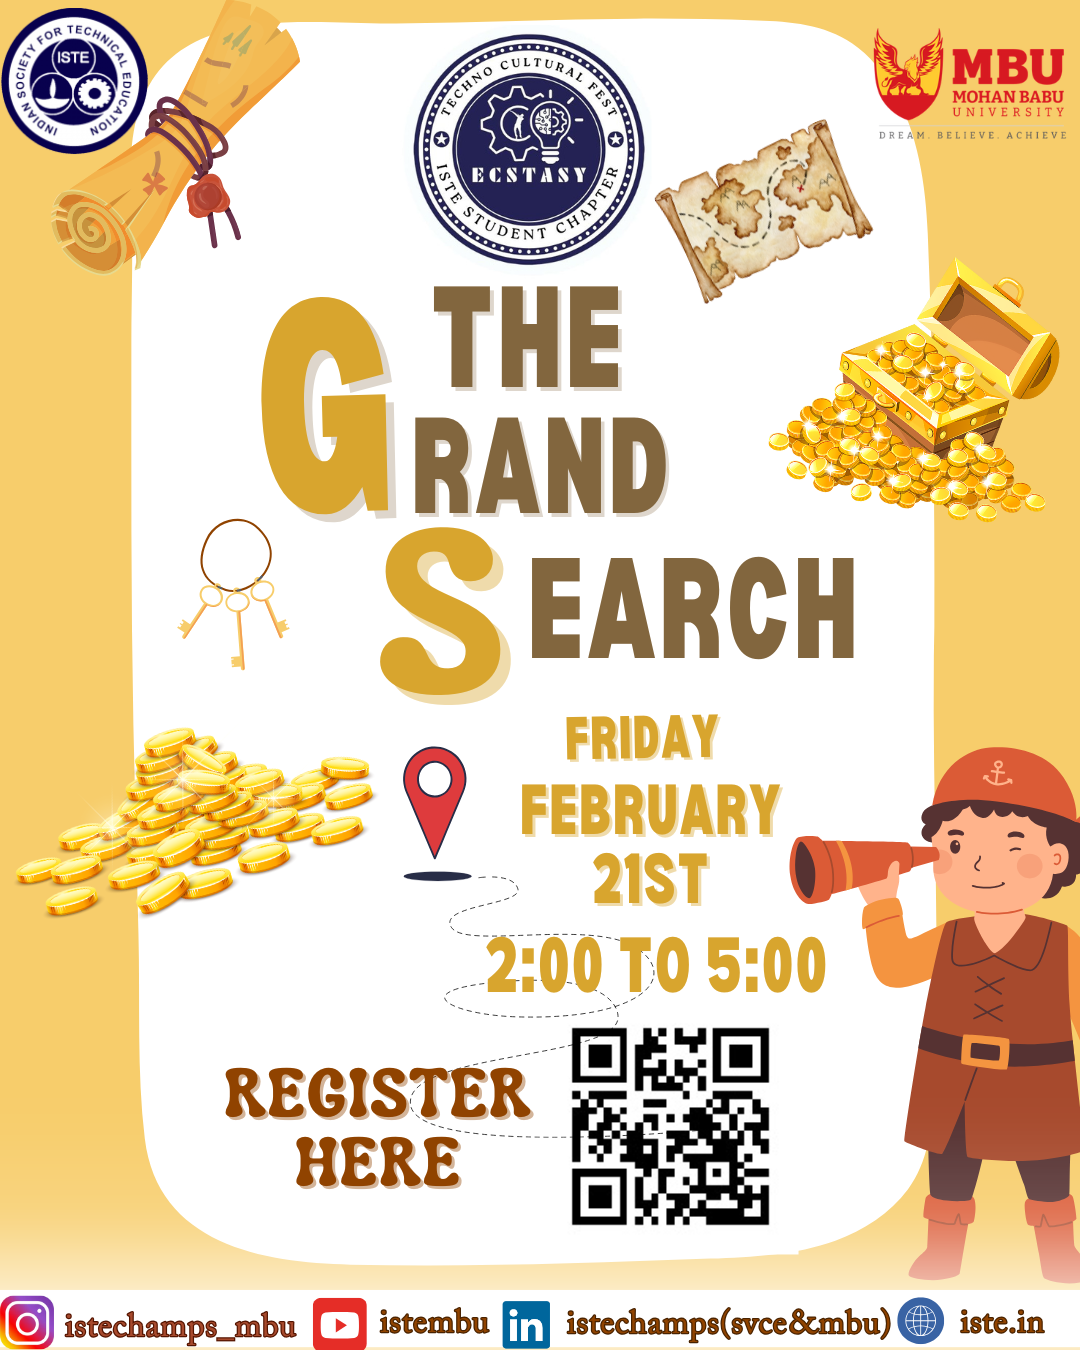
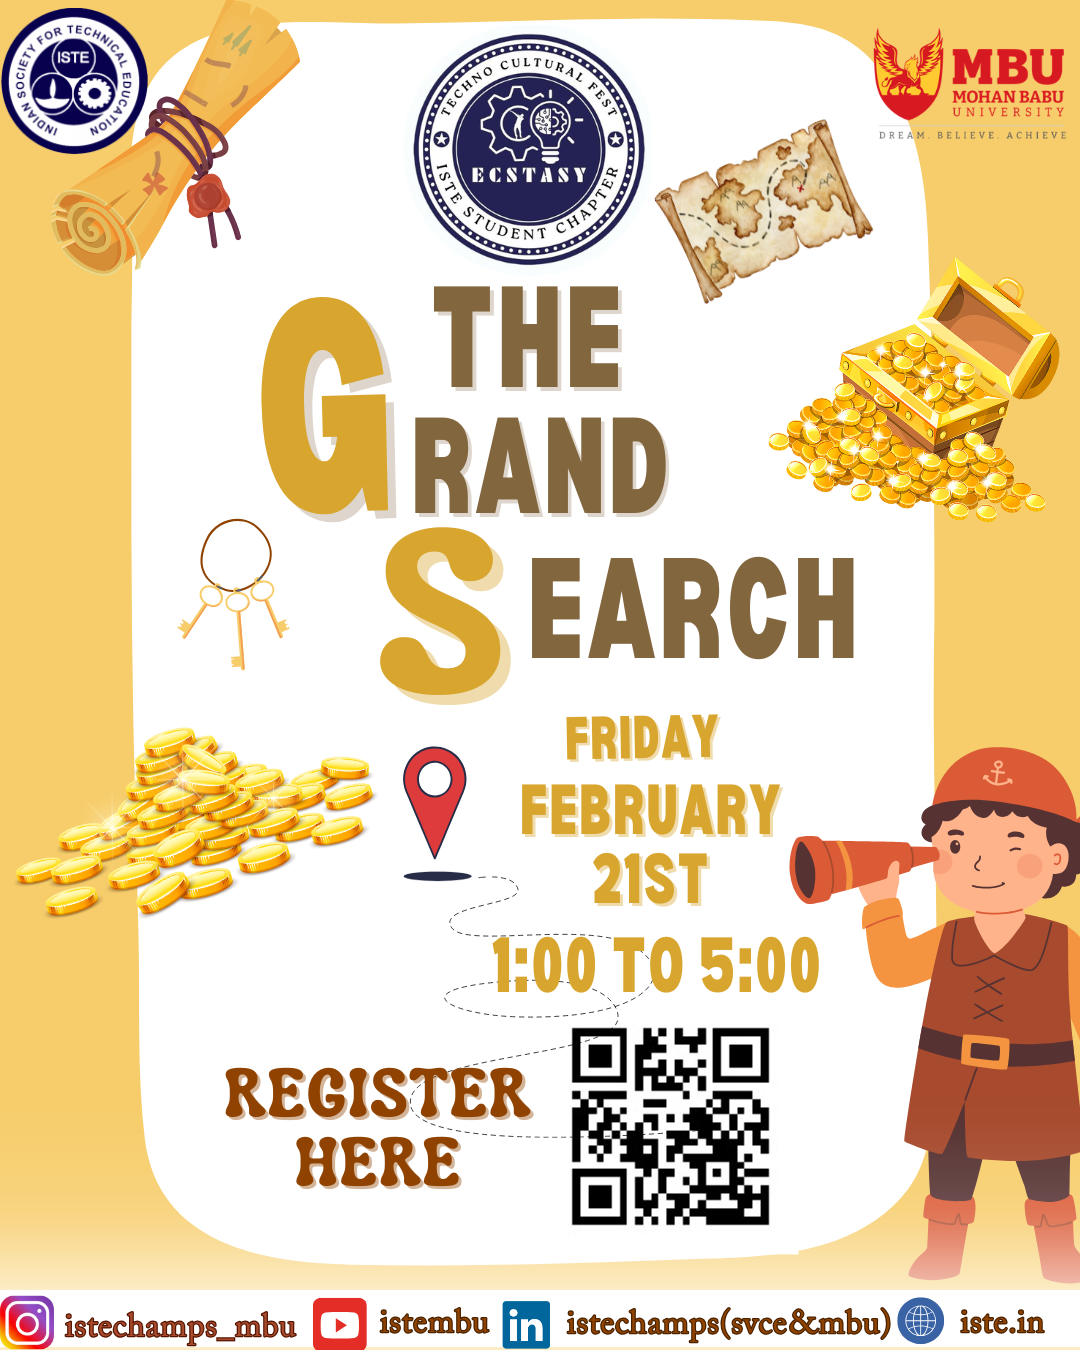
bgmi

Changed region(s): [[0.4583, 0.6844, 0.7639, 0.7467]]

diff --git a/public/js/es.js b/public/js/es.js
@@ -101,8 +101,8 @@ Share your anime-inspired experiences, talents, and passions!<br>
         "image": "/photos/posters/GARENA.jpg",
         "fee": 200,
         "prize": 3500,
-        "date": "February 22, 2025",
-        "time": "9:00 AM - 12:00PM",
+        "date": "February 21, 2025",
+        "time": "2:30 PM - 5:30PM",
         "lead": "Jambhava",
         "venue": "UPDATED SOON",
         "description": `Hey gamers!🎮<br>
@@ -147,7 +147,7 @@ Participants will face a gigantic food items🍱 or a platter that includes a co
         "fee": 100,
         "prize": 2000,
         "date": "February 21, 2025",
-        "time": "1:30 PM - 5:00 PM",
+        "time": "1:00 PM - 5:00 PM",
         "lead": "Jahnavi,Tejaswari,Divya",
         "venue": "Room No. 351, 2, 3, 4 ",
         "description": `Hey Searchers! 🔍 Are you ready for the ultimate challenge? 🤔 <br><br> "Discover the Unseen!"
@@ -232,7 +232,7 @@ Lights, camera, action! 🎬<br><br>
         "image": "/photos/posters/elegance.jpg",
         "fee": 50,
         "prize": 1000,
-        "date": "February 21, 2025",
+        "date": "February 22, 2025",
         "time": "4:00 PM - 5:00 PM",
         "lead": "Lasya, Lakshmi Priya",
         "venue": "Updated Soon",
@@ -323,6 +323,19 @@ Get ready to code, create,and collaborate at our full-stack Hackathon!🎯 Wheth
         "venue": "NAB(2) orTGR or 351,2,3,4",
         "description": "Are you ready to take your coding and collaboration  skills to the next level📈? Join us for an interactive session on version control using Git & collaborative coding with GitHub ! this workshop 🛠 enhances your workflow, will equip🔧 you with essential skills to manage and share your code like a pro!💻💡.",
         "formUrl": "https://forms.gle/yyUrDBWBVS5smMoW6"
+    },
+    {
+        "id": 21,
+        "name": "BGMI ",
+        "image": "/photos/posters/bgmi.jpg",
+        "fee": 200,
+        "prize": 3500,
+        "date": "February 22, 2025",
+        "time": "9:00 AM - 12:00 PM",
+        "lead": "Raja",
+        "venue": "update soon",
+        "description": "bgmi",
+        "formUrl": "https://forms.gle/6zroJgTfihJNzdbb9"
     },
     {
         "id": 20,
